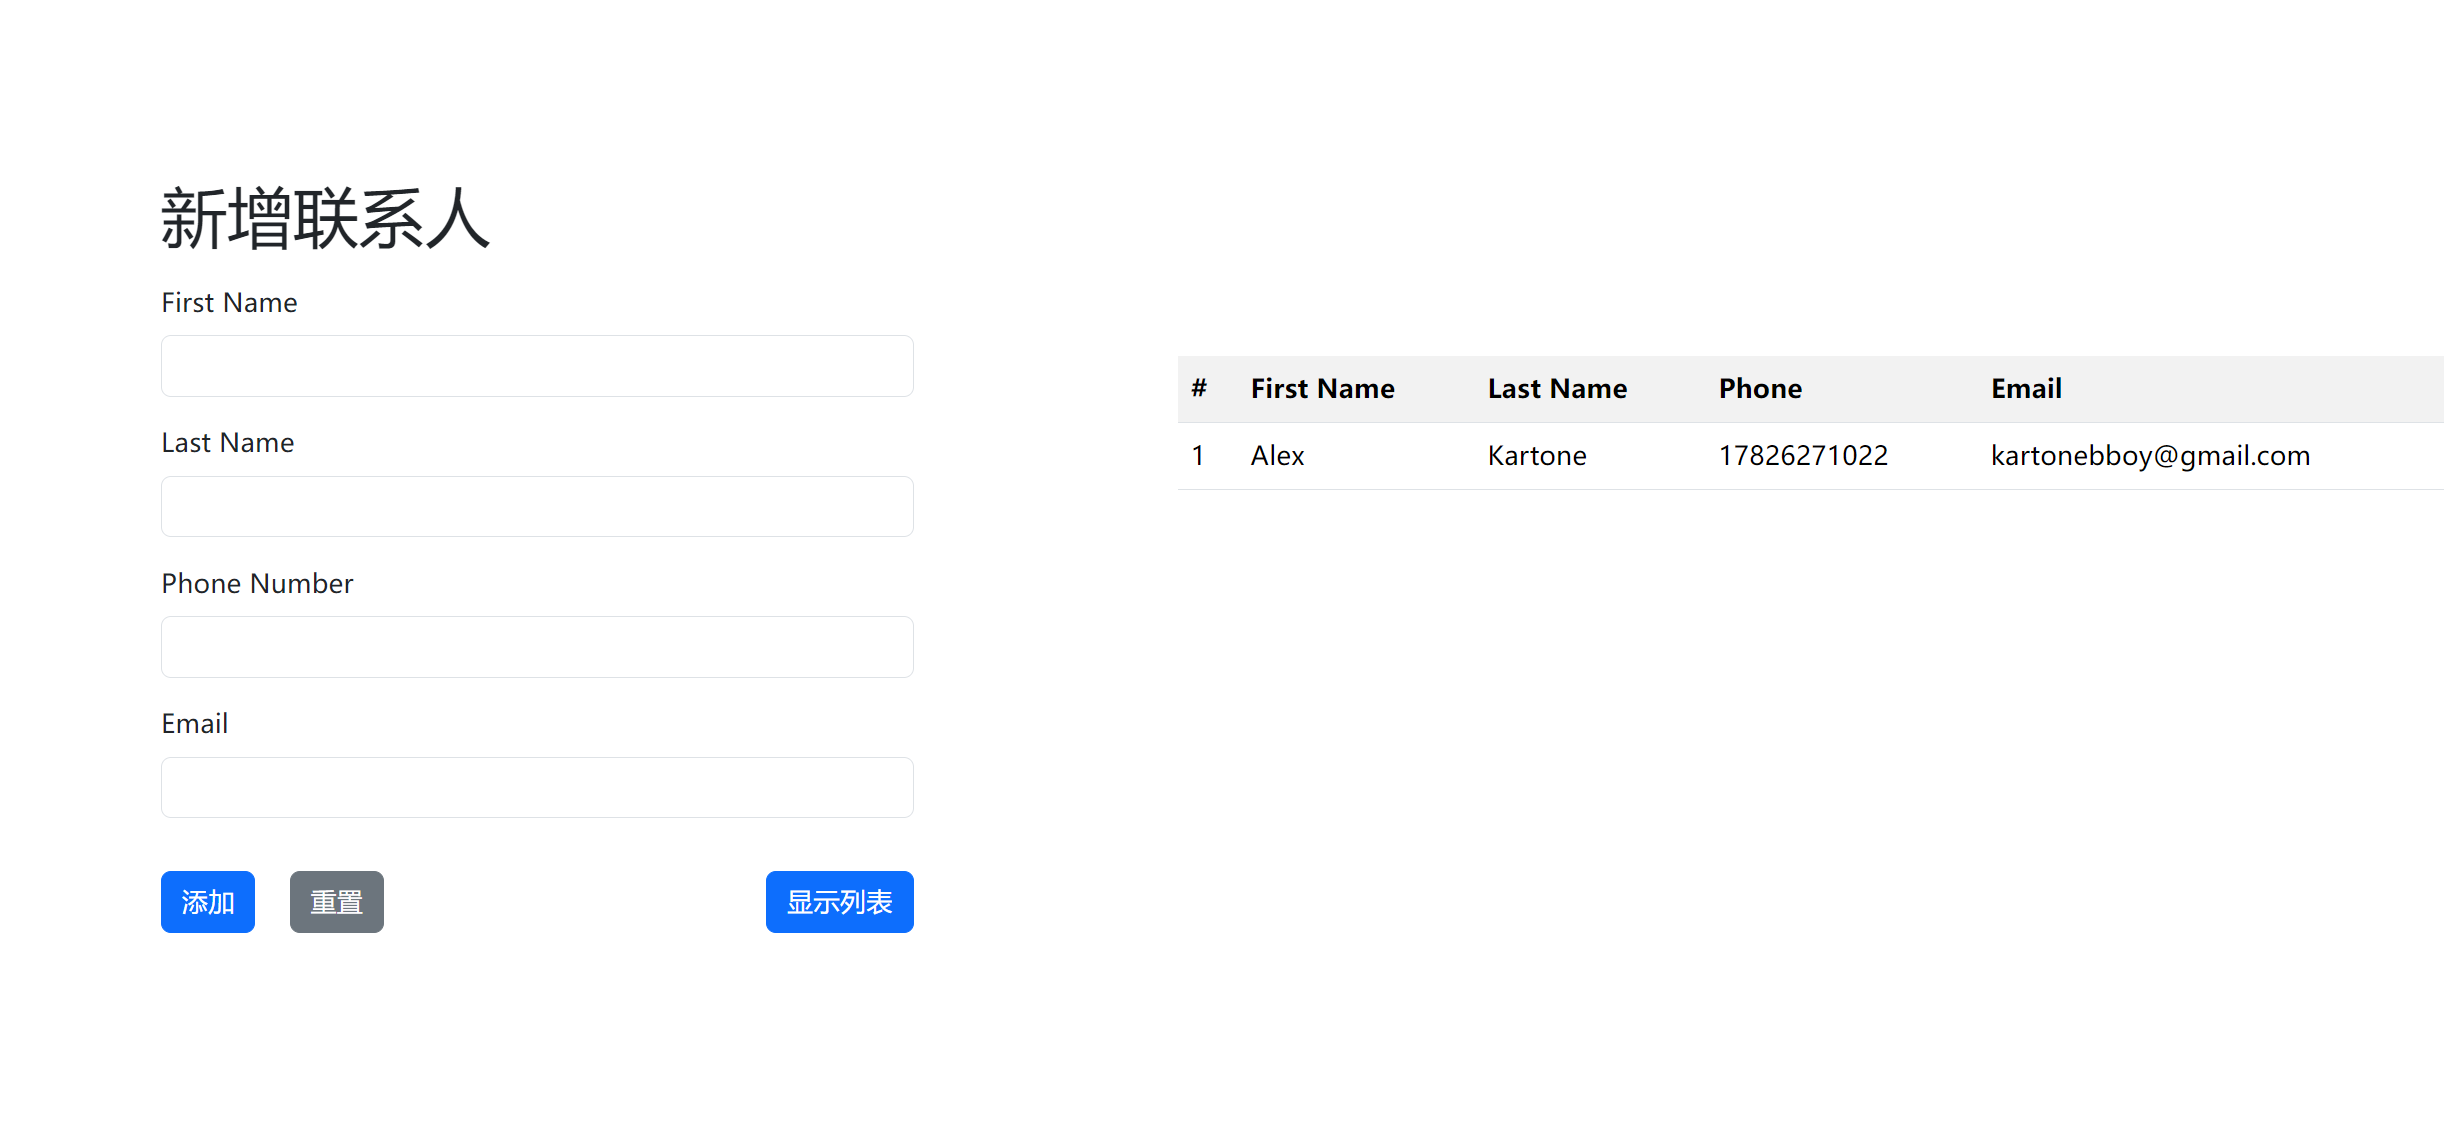
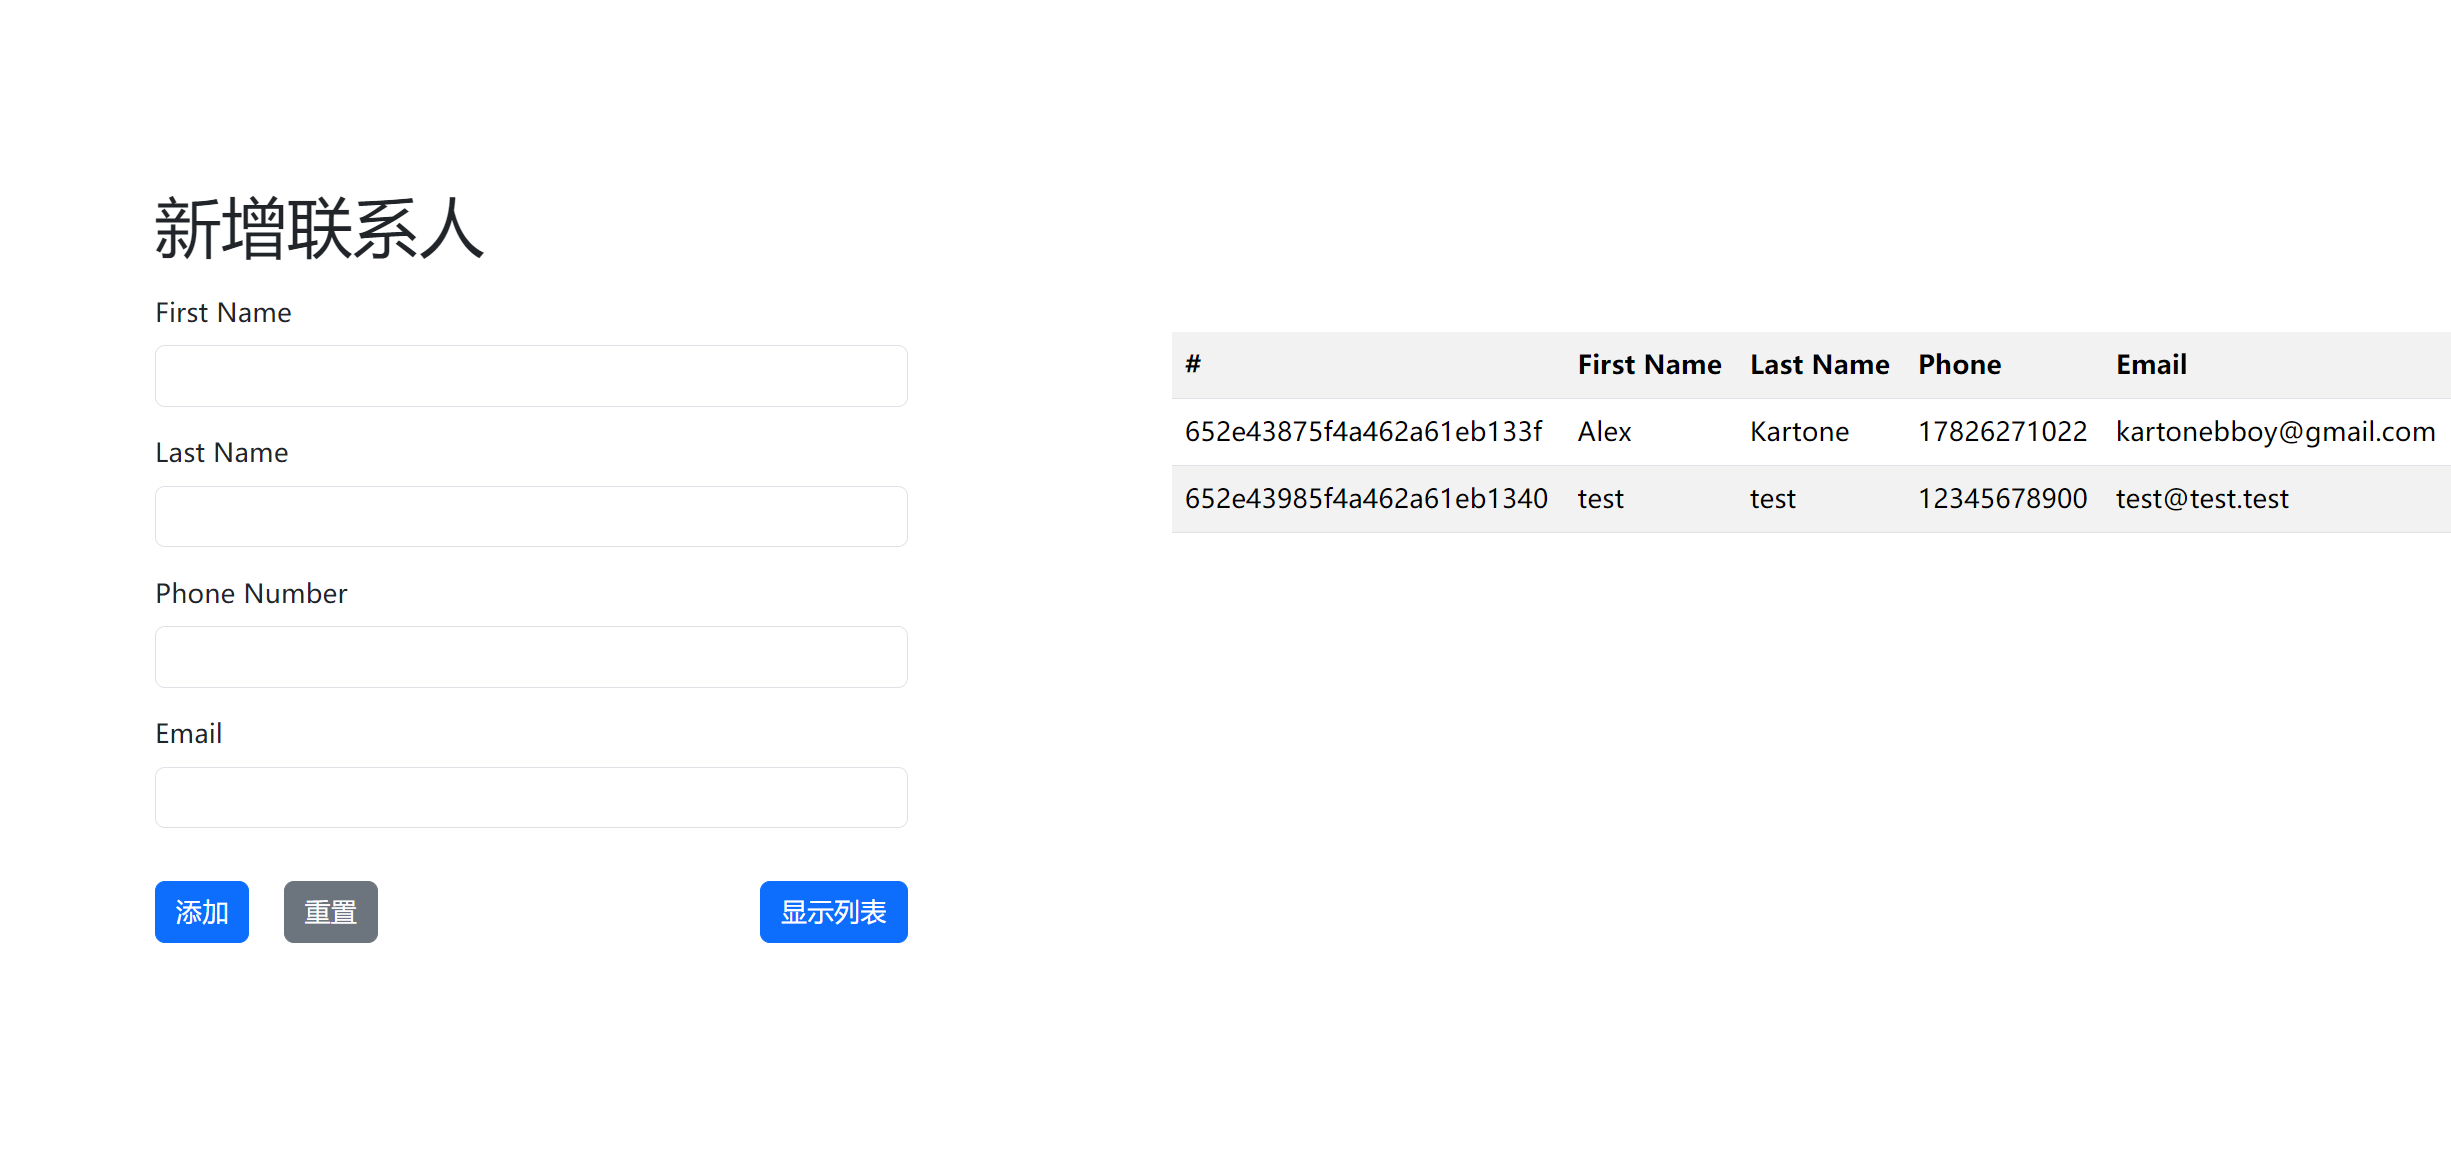
development notes and fine-tuning codes

diff --git a/src/main/java/com/homework/service/ContactServiceImpl.java b/src/main/java/com/homework/service/ContactServiceImpl.java
@@ -2,11 +2,7 @@ package com.homework.service;
 
 import com.homework.dao.ContactRepository;
 import com.homework.data.Contact;
-import org.springframework.beans.factory.annotation.Autowired;
 import org.springframework.stereotype.Component;
-
-import java.util.Iterator;
-import java.util.List;
 
 @Component
 public class ContactServiceImpl implements ContactService {

diff --git a/src/main/java/com/homework/data/Contact.java b/src/main/java/com/homework/data/Contact.java
@@ -2,8 +2,6 @@ package com.homework.data;
 
 import jakarta.validation.constraints.*;
 import lombok.Data;
-import lombok.NoArgsConstructor;
-import org.springframework.context.annotation.Primary;
 import org.springframework.data.annotation.Id;
 import org.springframework.data.mongodb.core.mapping.Document;
 

diff --git a/src/main/java/com/homework/service/ContactService.java b/src/main/java/com/homework/service/ContactService.java
@@ -2,8 +2,6 @@ package com.homework.service;
 
 import com.homework.data.Contact;
 
-import java.util.List;
-
 public interface ContactService {
     Iterable<Contact> getAll();
 

diff --git a/dev-notes.md b/dev-notes.md
@@ -1,105 +1,150 @@
-# JPA & H2
+# MongoDB
 
-本次新增的maven dependency
+## 依赖和配置
+
+`pom.xml`引入依赖
 
 ```xml
 <dependency>
     <groupId>org.springframework.boot</groupId>
-    <artifactId>spring-boot-starter-data-jpa</artifactId>
-</dependency>
-
-<dependency>
-    <groupId>org.springframework.boot</groupId>
-    <artifactId>spring-boot-devtools</artifactId>
-</dependency>
-
-<dependency>
-    <groupId>com.h2database</groupId>
-    <artifactId>h2</artifactId>
-    <scope>runtime</scope>
+    <artifactId>spring-boot-starter-data-mongodb</artifactId>
 </dependency>
 ```
 
-对repository进行改写，只需继承`JpaRepository`就简化了很多开发工作量。不使用`CrudRepository`的原因是findAll方法返回类型为Iterable，功能较少，`JpaRepository`的findAll方法返回类型为List
+`mongodb`配置
 
-* 添加`@Repository`
-* interface接口类型
+```
+spring:
+  data:
+    mongodb:
+      uri: mongodb://localhost:27017/test	# test代表要访问的数据库
+```
+
+## 安装docker
+
+reference: [Windows下安装docker](https://learn.microsoft.com/zh-cn/windows/wsl/tutorials/wsl-containers)
+
+## Interact with MongoDB Shell
+
+### 首次操作
+
+首次操作按照老师PPT的步骤
+
+1. `docker network create mongo-net`
+2. `docker run --name my-mongo --network mongo-net -p 27017:27017 -d mongo:latest`
+	* 若没有`mongo`镜像会自动下载，然后创建`my-mongo`实例
+3. `docker run -it --network mongo-net --rm mongo mongosh --host my-mongo`
+
+```powershell
+PS C:\Users\estar> docker network create mongo-net
[1 lines of base64/hex data omitted]
+PS C:\Users\estar> docker run --name my-mongo --network mongo-net -p 27017:27017 -d mongo:latest
+Unable to find image 'mongo:latest' locally
+latest: Pulling from library/mongo
+43f89b94cd7d: Pull complete
+54a7480baa9d: Pull complete
+7f9301fbd7df: Pull complete
+5e4470f2e90f: Pull complete
+40d046ff8fd3: Pull complete
+e062d62b861e: Pull complete
+72919e34fde8: Pull complete
+ab22810dfc64: Pull complete
+fb05c29fbdf5: Pull complete
+Digest: sha256:d341a86584b96eb665345a8f5b35fba8695ee1d0618fd012ec4696223a3d6c62
+Status: Downloaded newer image for mongo:latest
[1 lines of base64/hex data omitted]
+PS C:\Users\estar> docker run --name my-mongo --network mongo-net -p 27017:27017 -d mongo:latest
[1 lines of base64/hex data omitted]
+See 'docker run --help'.
+PS C:\Users\estar> docker run -it --network mongo-net --rm mongo mongosh --host my-mongo
+Current Mongosh Log ID: 652e1734a7c7d99091707be1
+Connecting to:          mongodb://my-mongo:27017/?directConnection=true&appName=mongosh+2.0.1
+Using MongoDB:          7.0.2
+Using Mongosh:          2.0.1
+
+For mongosh info see: https://docs.mongodb.com/mongodb-shell/
+
+
+To help improve our products, anonymous usage data is collected and sent to MongoDB periodically (https://www.mongodb.com/legal/privacy-policy).
+You can opt-out by running the disableTelemetry() command.
+
+------
+   The server generated these startup warnings when booting
+   2023-10-17T05:09:26.806+00:00: Using the XFS filesystem is strongly recommended with the WiredTiger storage engine. See http://dochub.mongodb.org/core/prodnotes-filesystem
+   2023-10-17T05:09:27.101+00:00: Access control is not enabled for the database. Read and write access to data and configuration is unrestricted
+   2023-10-17T05:09:27.101+00:00: /sys/kernel/mm/transparent_hugepage/enabled is 'always'. We suggest setting it to 'never'
+   2023-10-17T05:09:27.102+00:00: vm.max_map_count is too low
+------
+
+test>
+```
+
+还有一种方法：https://www.mongodb.com/docs/manual/tutorial/install-mongodb-community-with-docker/ 不过还没有验证
+
+### 创建mongo实例后再次访问Mongosh
+
+1. 在Docker Desktop中启动`my-mongo`实例
+2. 终端输入 `docker run -it --network mongo-net --rm mongo mongosh --host my-mongo` 访问MongoDB Shell
+   * `--rm` 表示在容器停止后立即删除容器
+
+![](images/docker.png)
+
+我们发现多出一个`sharp_shannon`容器，结合上文的`--rm`，猜测这与`mongosh`有关，当容器停止后便自动删除
+
+当我们手动关闭这个容器后，发现终端中的Mongosh自动退出了：
+
+```powershell
+...
+test>
+PS C:\Users\estar>
+```
+
+## @Document和@Id
+
+我们给Contact领域类注解`@Document`，和MongoDB的表结构对应起来，并且id用String的形式，因为MongoDB的`_id`采用UUID的格式存储
 
 ```java
+@Data
+@Document
+public class Contact implements Serializable {
+    @Id
+    private String id;
+
+    @NotNull
+    @Size(min = 1, max=50, message = "姓名长度至少为2")
+    private String firstName;
+    
+    ...
+}
+```
+
+## @Repository
+
+```java
+package com.homework.dao;
+
+import com.homework.data.Contact;
+import org.springframework.data.repository.CrudRepository;
+import org.springframework.stereotype.Repository;
+
 @Repository
-public interface ContactRepository extends JpaRepository<Contact, Long> {
+public interface ContactRepository extends CrudRepository<Contact, String> {
 }
 ```
 
-# ComponentScan的excludeFilters(not solved)
+这里注意，我们不使用`JpaRepository`，使用`CrudRepository`，且id类型为String
 
-## 问题
+* `CrudRepository`的find查询结果返回类型为`Iterable`，不是`List`
 
-ContactConfig和ContactConfigAOP在同一目录下，都有@Configuration注解，并且使用excludeFilters过滤另一个Config。在Test测试类中引入ContactConfig的上下文，可是ContactConfigAOP仍然被扫到了，创建了切面，引入了新的行为。
+## MongoDB cheatsheet
 
-尝试使用FilterType的Annotation和ASSIGNABLE_TYPE过滤，无一生效
+<img src="images/basic.png" style="zoom:50%;" />
 
-```java
-@Configuration
-@ComponentScan(basePackages = "com.homework", excludeFilters = @ComponentScan.Filter(type = FilterType.ASSIGNABLE_TYPE, value = ContactConfigAOP.class))
-public class ContactConfig {
-}
+<img src="images/basic_command.png" style="zoom: 50%;" />
 
-@Configuration
-@ComponentScan(excludeFilters = {@ComponentScan.Filter(type = FilterType.ASSIGNABLE_TYPE, value = ContactConfig.class)})
-@EnableAspectJAutoProxy
-public class ContactConfigAOP {
-    @Bean
-    public DefaultContactAspect getDefaultContact() {
-        return new DefaultContactAspect();
-    }
-}
 
-// 测试类
-@RunWith(SpringJUnit4ClassRunner.class)
-@ContextConfiguration(classes = ContactConfig.class)
-public class ContactServiceTest {
-	...
-}
-```
 
-## 暂时的解决方法
+<img src="images/commands.png" style="zoom:50%;" />
 
-```java
-@ComponentScan
-public class ContactConfig {
-}
 
-@ComponentScan
-@EnableAspectJAutoProxy	// optional
-public class ContactConfigAOP {
-    @Bean
-    public DefaultContactAspect getDefaultContact() {
-        return new DefaultContactAspect();
-    }
-}
-```
-
-去掉`@Configuration` 。This will work.
-
-若在SpringBootApplication中引入Config类，只需要new一个配置类的Bean就行了
-
-拓展：即使去除`@EnableAspectJAutoProxy`注解，只要能扫描到`Aspect`类，AOP仍能正常运行。reference: [Spring AOP works without @EnableAspectJAutoProxy?](https://stackoverflow.com/questions/48625149/spring-aop-works-without-enableaspectjautoproxy)
-
-# @Id和@GeneratedValue——JPA
-
-我们给Contact的id标注@Id和@GeneratedValue(strategy = GenerationType.IDENTITY)，这样在每次创建Contact实例的时候，id就会自增1。那么我们就不需要手动指定id的值了。
-
-在处理表单post请求的时候，SpringBoot会将数据拼成Contact对象，虽然表单没有提供id的数据，id会自增1
-
-如果要手动构造Contact对象，我们新增如下构造器，并给类注解`@NoArgsConstructor`，在`new Contact("name", "name", "12312312312", "123@123.com")`的时候SpringBoot会自动帮我们给id加1
-
-```java
-public Contact(String fn, String ln, String pn, String ea) {
-    firstName = fn;
-    lastName = ln;
-    phoneNumber = pn;
-    emailAddress = ea;
-}
-```
 

diff --git a/README.md b/README.md
@@ -1,10 +1,18 @@
-# Homework 05
+# Homework 06
 
-本次作业的任务是数据持久化，使用JPA和H2存储联系人数据
+使用非关系型数据库MongoDB做数据持久化。
 
-运行图片：
+浏览器访问应用，录入通讯录，然后访问MongoDB Shell，运行以下两个命令的截图：
 
-![images/h2.png](images/h2.png)
+* `show collections`
+* `db.contact.find()`
 
-待改进：
-* 添加删除联系人功能，一键删除或单个删除
+添加联系人，注意id格式为UUID
+
+![](images/新增联系人.png)
+
+`docker run -it --network mongo-net --rm mongo mongosh --host my-mongo` 访问MongoDB shell（docker中已经运行my-mongo容器的情况下）
+
+![](images/docker.png)
+
+![](images/mongodb.png)
